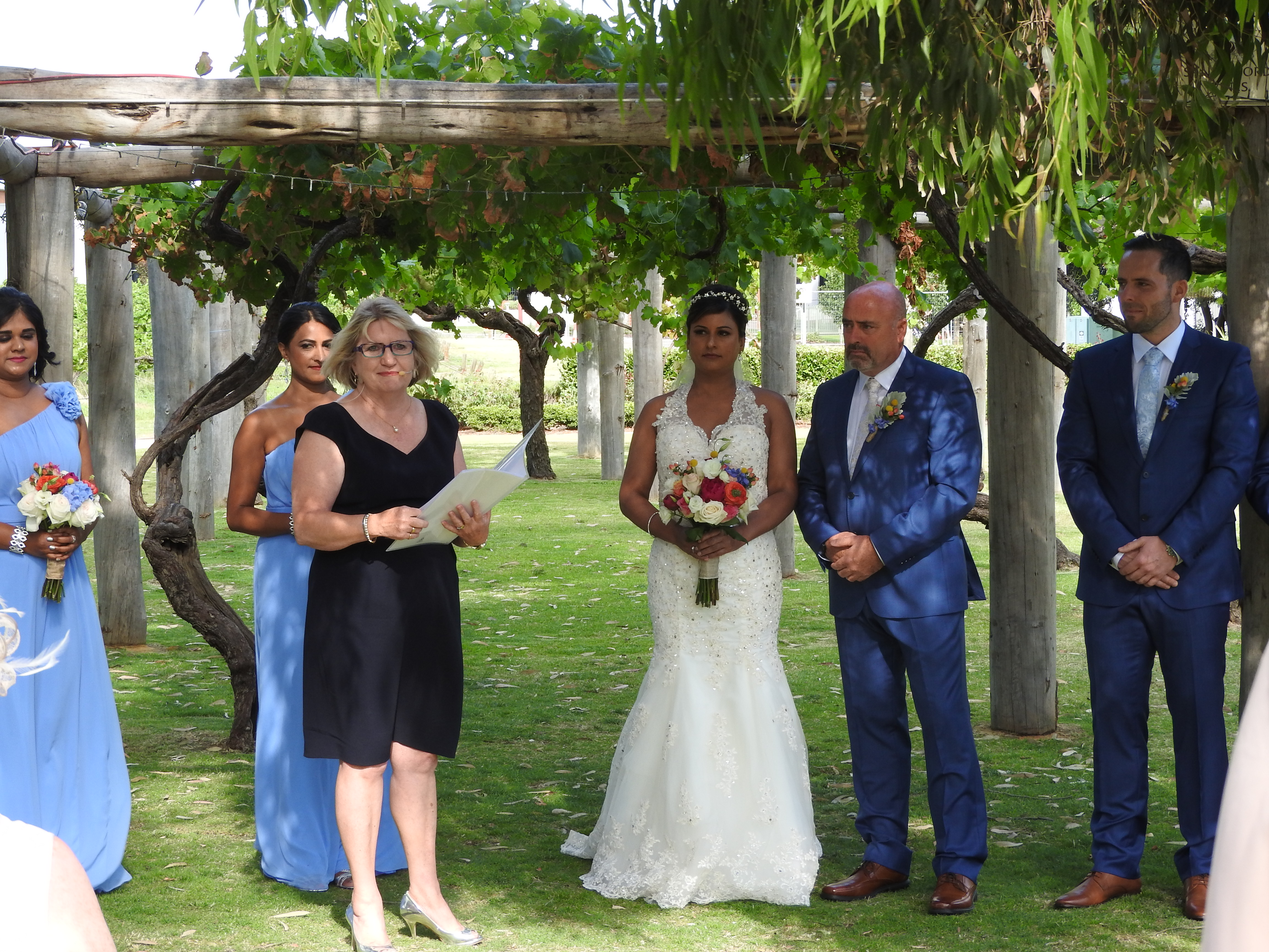
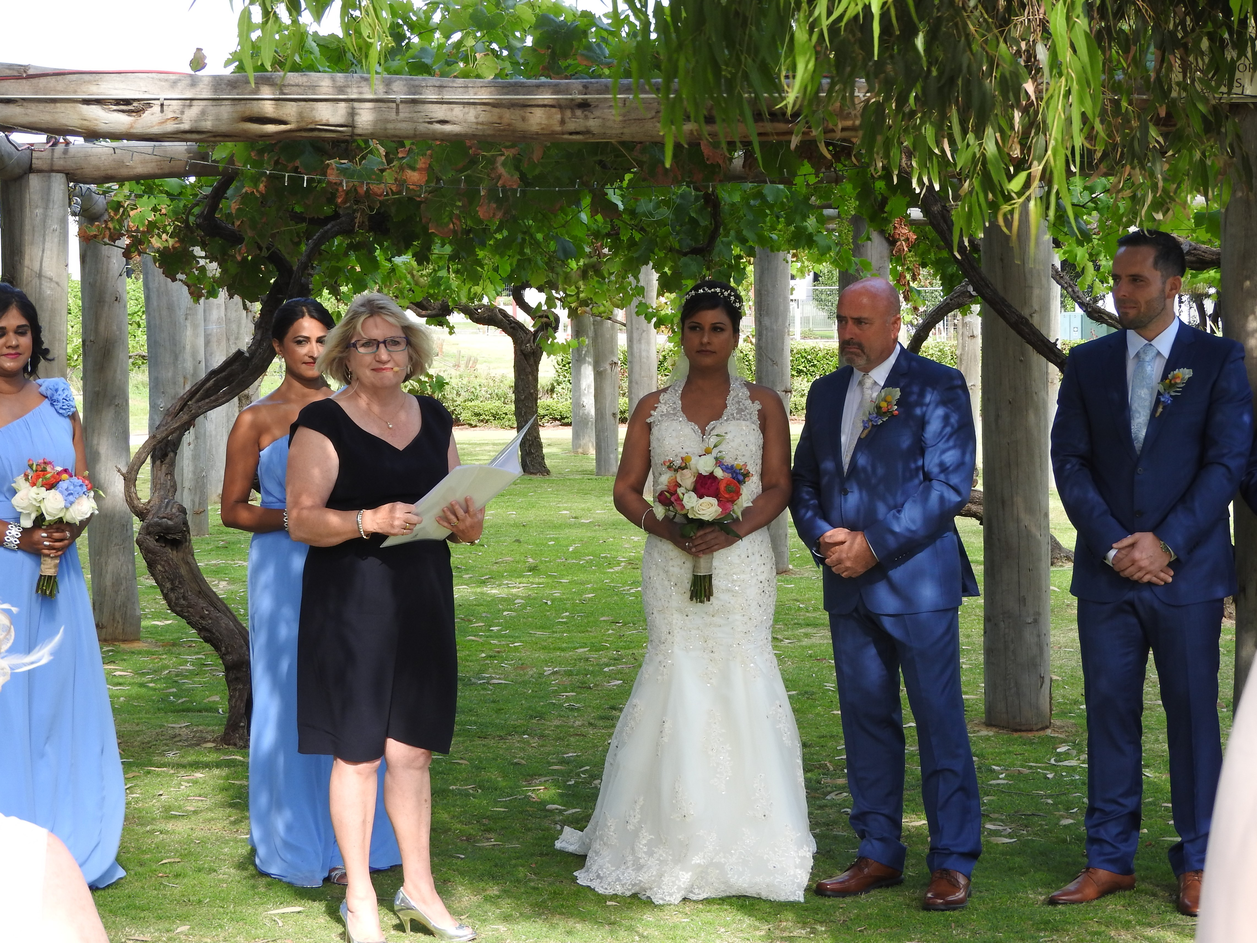
started adding gallery pages and standardised picture sizes

Changed region(s): [[0.0, 0.0, 1.0, 1.0], [0.0311, 0.875, 0.0622, 0.9062], [0.0, 0.8438, 0.0311, 0.875]]

diff --git a/src/pages/gallery.js b/src/pages/gallery.js
@@ -13,24 +13,20 @@ const meta = {
 };
 
 const Gallery = ({data}) => {
-  let images = {},
-      imageData = data.allFile.edges;
+  let imageData = data.allFile.edges;
 
-  imageData.map((image) => {
-    images[image.node.name] = image.node.childImageSharp.fixed;
-  })
-
-  let gallery = images.map((image) => (
+  let gallery = imageData.map((image) => (
     <Img
-        fixed={image}
+        fixed={image.node.childImageSharp.fixed}
         Tag='figure'
+        imgStyle={{objectFit: 'top', height: 'auto'}}
     />
   ))
 
   return  (
-    <Layout meta={meta}>
+    <Layout meta={meta} customClass="gallery">
       <h1>Gallery</h1>
-      <div class="gallery">
+      <div class="gallery-images">
         {gallery}
       </div>
     </Layout>
@@ -47,7 +43,7 @@ export const query = graphql`
         node {
           name
           childImageSharp {
-            fixed(height: 400, quality: 80) {
+            fixed(height: 500, quality: 80) {
               ...GatsbyImageSharpFixed_withWebp
             }
           }

diff --git a/src/components/layout.js b/src/components/layout.js
@@ -10,7 +10,7 @@ import Logo from '../images/logo.png';
 import '../global.scss';
 import './content.scss';
 
-const Layout = ({ children, data, home, meta }) => (
+const Layout = ({ children, data, home, meta, customClass }) => (
   <StaticQuery
     query={graphql`
       query SiteTitleQuery {
@@ -30,7 +30,7 @@ const Layout = ({ children, data, home, meta }) => (
         <Fragment>
           <Meta {...meta} url={url} siteName={siteTitle} />
           <Header siteTitle={data.site.siteMetadata.title} />
-          <main className={home && 'home'}>
+          <main className={home ? 'home' : customClass}>
             {children}
           </main>
           <Footer />

diff --git a/src/pages/gallery.scss b/src/pages/gallery.scss
@@ -1,4 +1,22 @@
 .gallery {
+    max-width: 1200px;
+}
+
+.gallery-images {
     display: flex;
         flex-wrap: wrap;
+        justify-content: space-between;
+    margin: -10px;
+
+    figure {
+        flex: 1 1 auto;
+        // height: 300px;
+            max-height: unset;
+        margin: 10px;
+        max-width: 590px;
+
+        img {
+            max-height: unset;
+        }
+    }
 }
